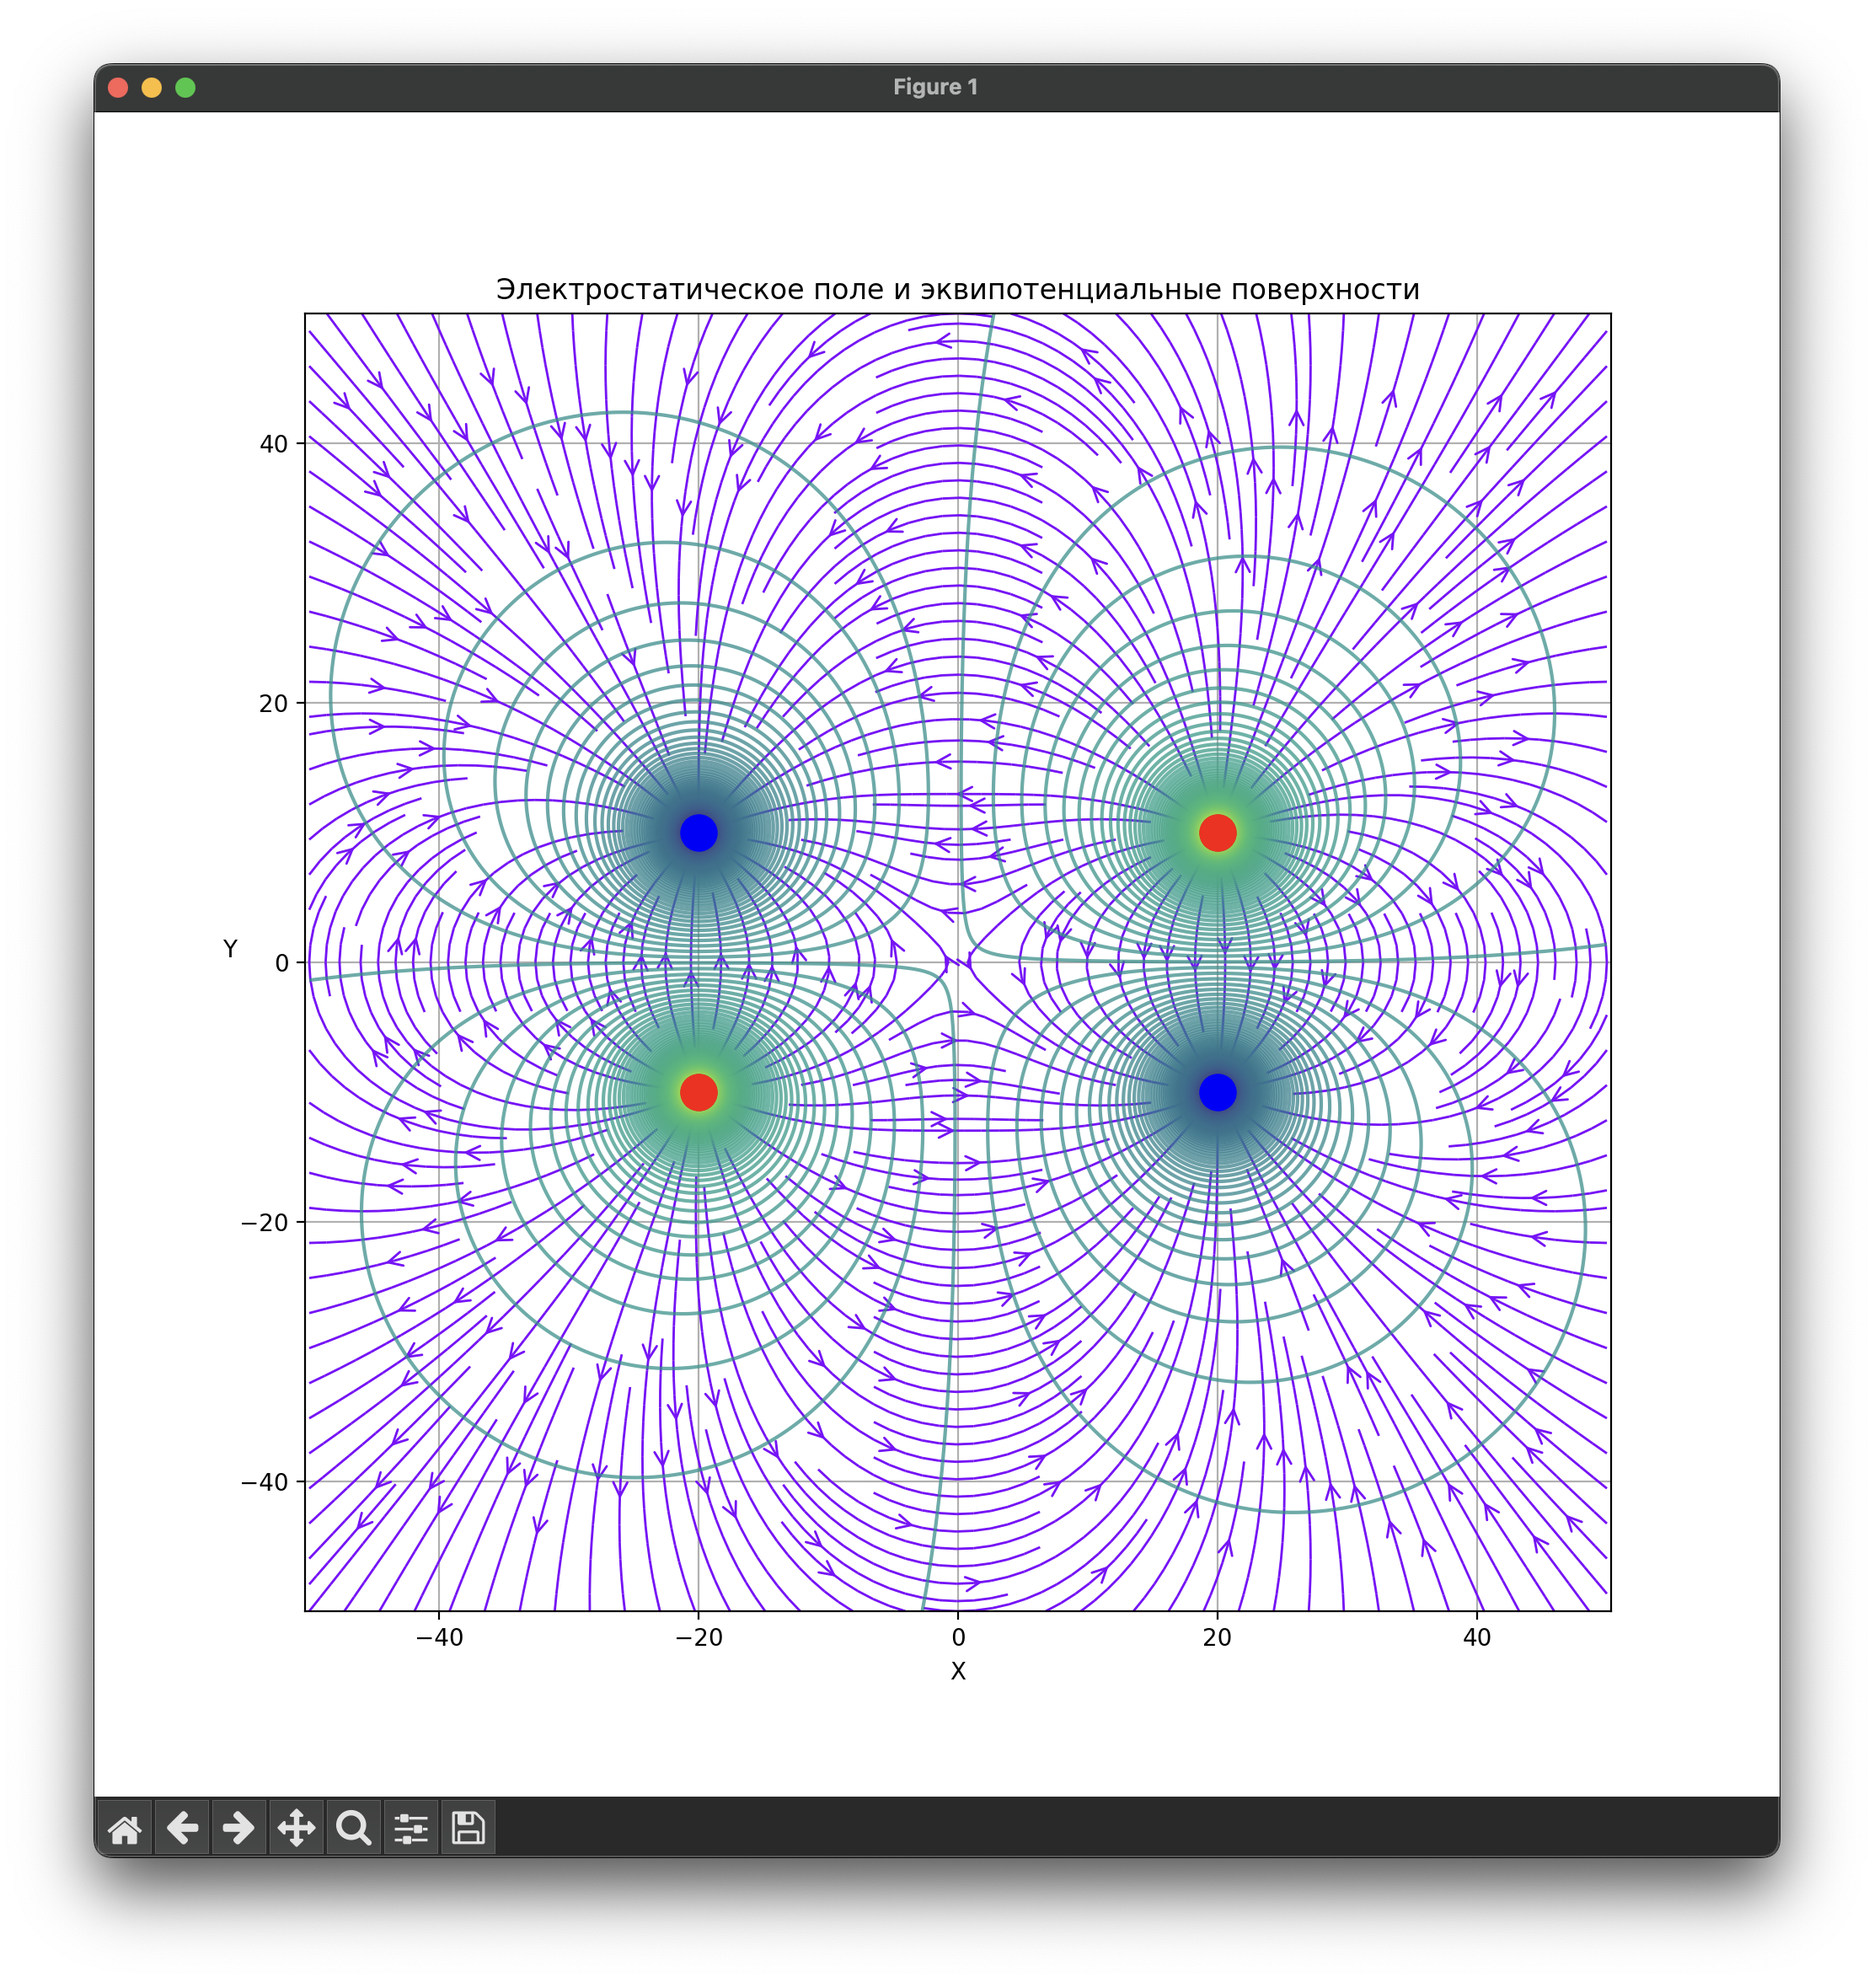
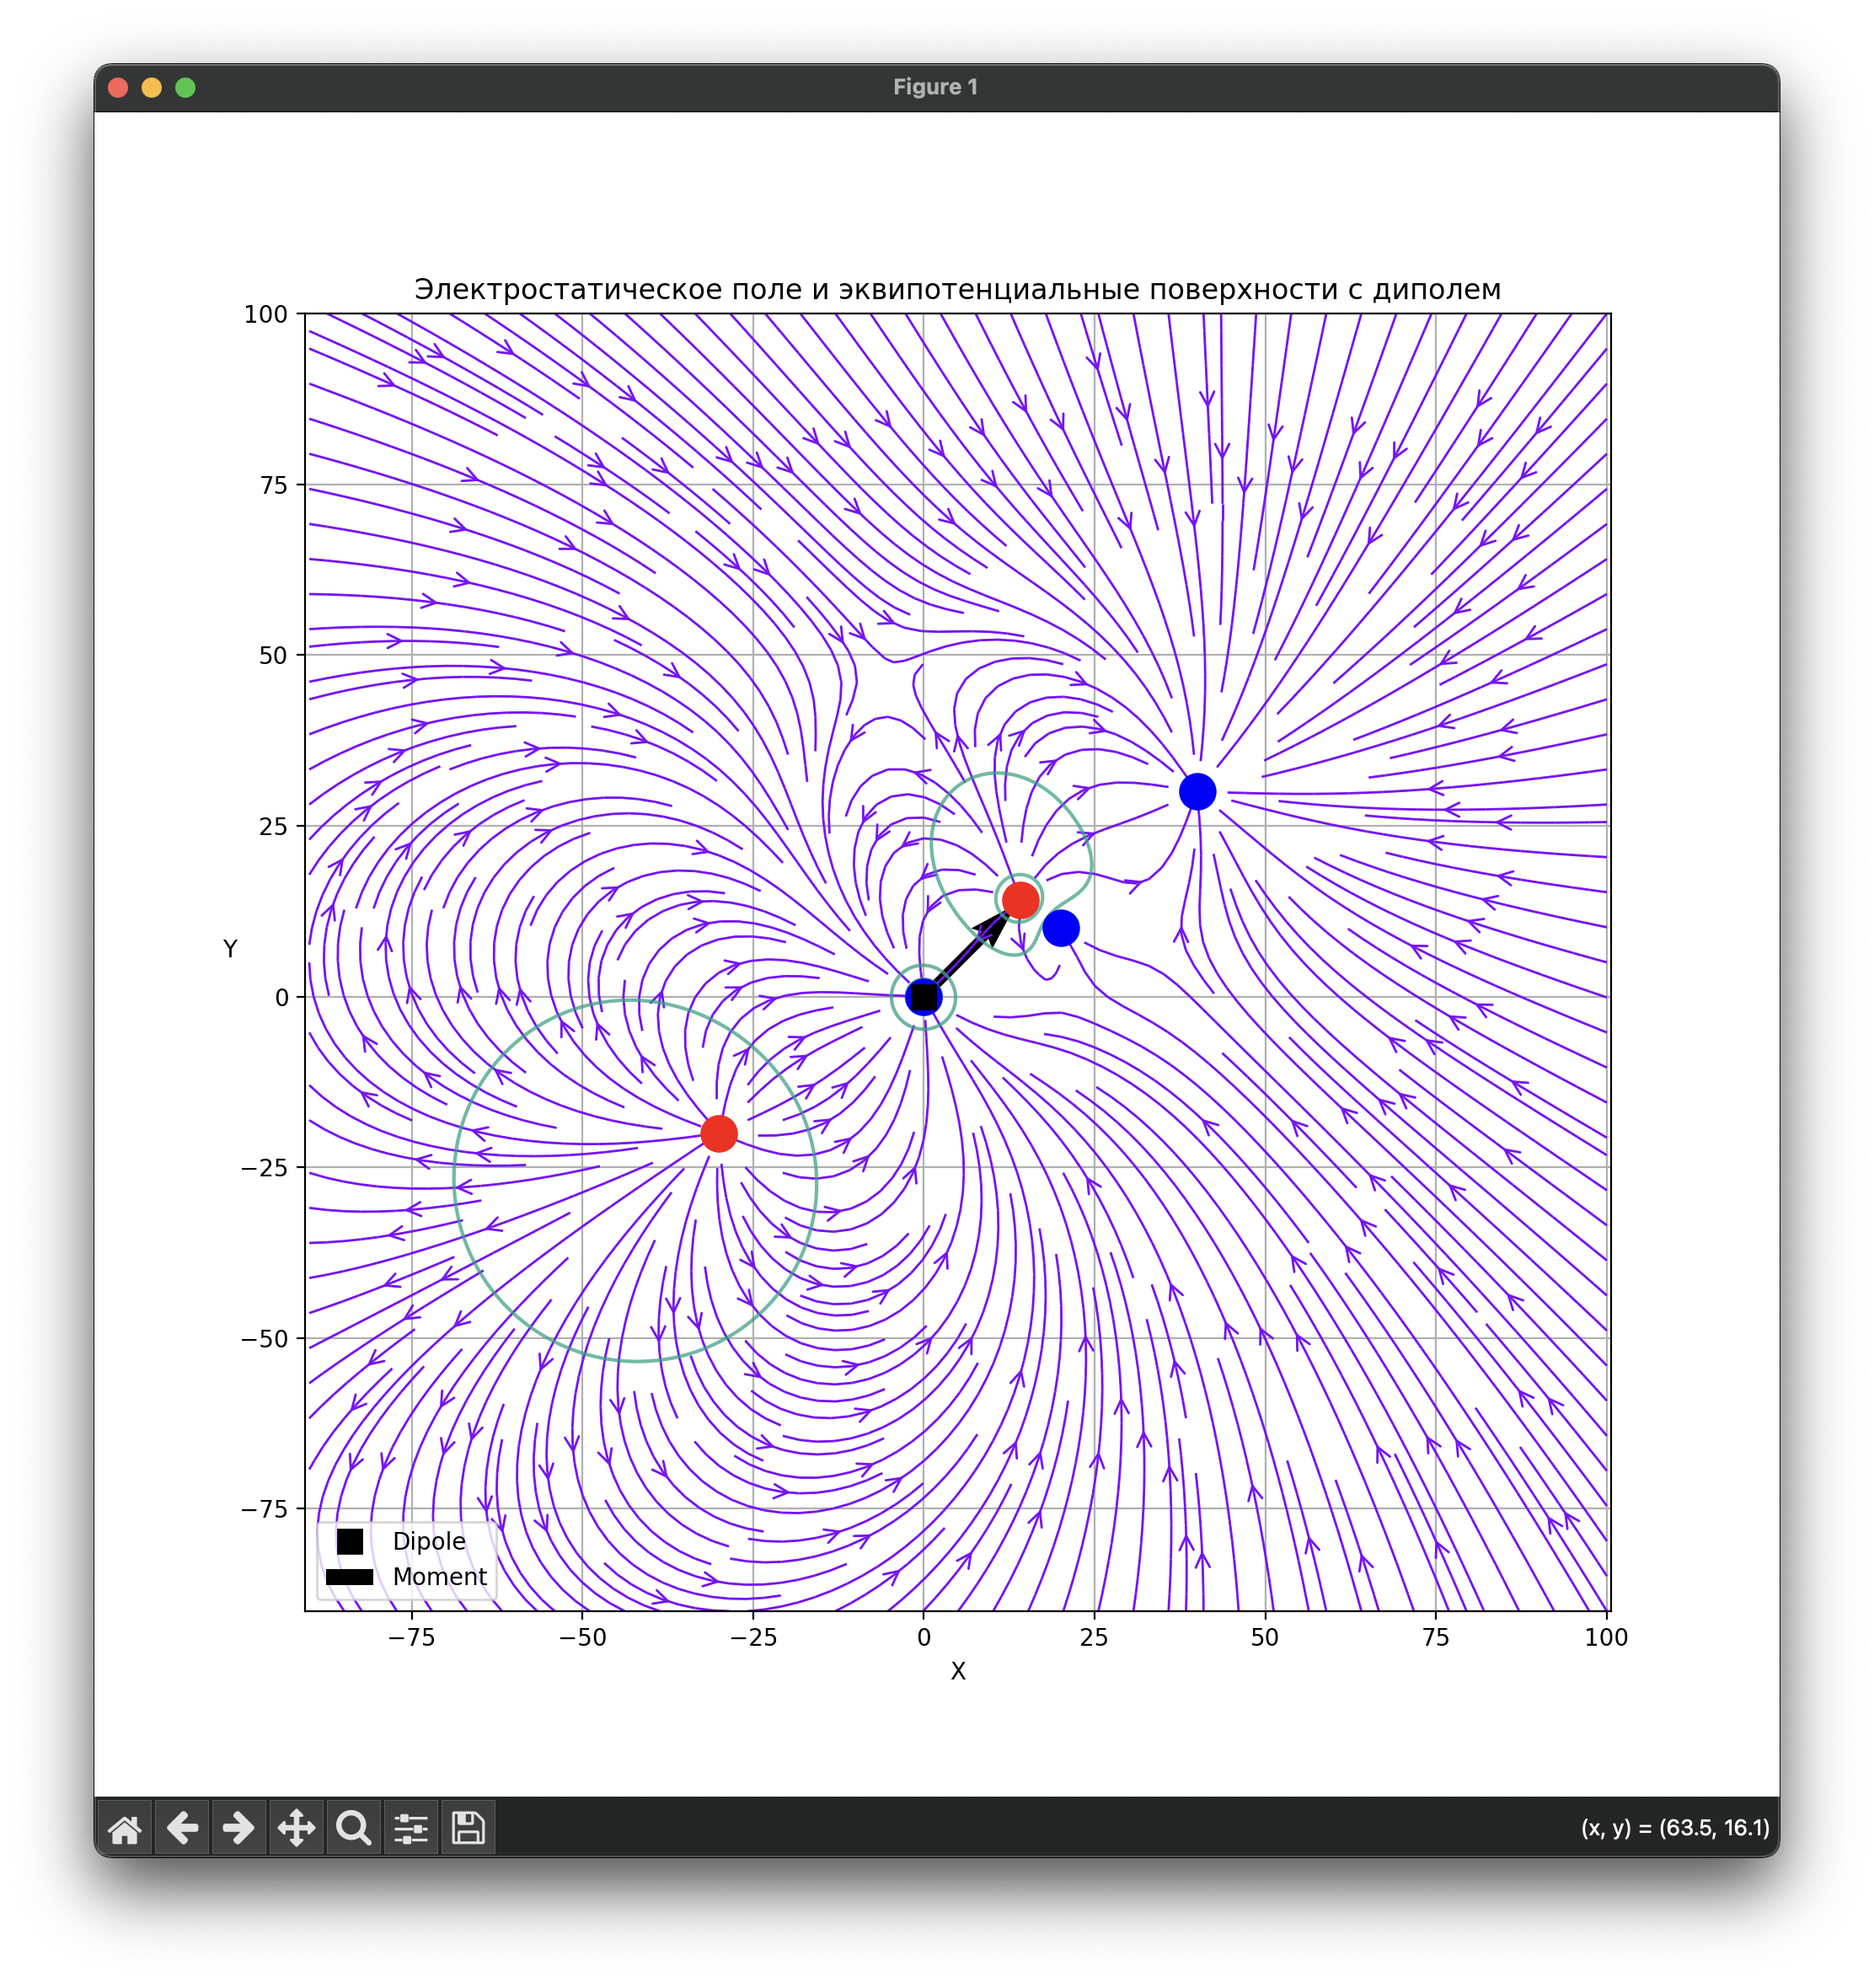
v1 - mvp

Changed region(s): [[0.1241, 0.1241, 0.8687, 0.838], [0.8997, 0.9001, 0.9308, 0.9311]]

diff --git a/dt_13.py b/dt_13.py
@@ -17,6 +17,31 @@ class PointCharge:
         self.x = x
         self.y = y
 
+    def __str__(self):
+        return f"PointCharge(q={self.q}, x={self.x}, y={self.y})"
+
+
+class Dipole:
+    def __init__(self, p, x, y, theta):
+        self.p = p  # Модуль дипольного момента
+        self.x = x
+        self.y = y
+        self.theta = theta  # Угол направления дипольного момента (в радианах)
+
+    def as_charges(self):
+        """
+        Представляет диполь как два точечных заряда.
+        """
+        d_half = self.p / abs(self.p) * 1e+1  # Маленькое расстояние между зарядами
+        q_magnitude = self.p / (2 * d_half)
+        dx = np.cos(self.theta) * d_half
+        dy = np.sin(self.theta) * d_half
+
+        positive_charge = PointCharge(q_magnitude, self.x + dx * 2, self.y + dy * 2)
+        negative_charge = PointCharge(-q_magnitude, self.x, self.y)
+
+        return [positive_charge, negative_charge]
+
 
 def electric_field(charges, x, y):
     """
@@ -60,6 +85,34 @@ def potential(charges, x, y):
     return V
 
 
+def dipole_force_and_torque(dipole, charges):
+    """
+    Вычисление силы и момента силы, действующих на диполь.
+    """
+    Fx, Fy, torque = 0, 0, 0
+
+    for charge in charges:
+        dx = dipole.x - charge.x
+        dy = dipole.y - charge.y
+        r_squared = dx ** 2 + dy ** 2
+        if r_squared < 1e-6:
+            continue
+
+        r = np.sqrt(r_squared)
+        k = 8.99e9
+        E = k * charge.q / r_squared
+
+        Ex = E * (dx / r)
+        Ey = E * (dy / r)
+
+        Fx += dipole.p * np.cos(dipole.theta) * Ex
+        Fy += dipole.p * np.sin(dipole.theta) * Ey
+
+        torque += dipole.p * (np.sin(dipole.theta) * Ex - np.cos(dipole.theta) * Ey)
+
+    return Fx, Fy, torque
+
+
 print("Введите параметры для моделирования электростатического поля")
 
 log.debug("Ожидание ввода параметров")
@@ -83,16 +136,24 @@ for i in range(n):
             f"Y-координату заряда {i + 1:<3} (пример: {yr:5}): "
         ) or yr))
 
-log.debug("Параметры введены")
+charges = [PointCharge(qs[i], xs[i], ys[i]) for i in range(n)]
 
-for i in range(n):
-    log.debug(f"Заряд {i + 1}: {qs[i]} Кл, X-координата: {xs[i]}, Y-координата: {ys[i]}")
+print("Введите параметры диполя")
+p = float(input("Модуль дипольного момента (пример: 1): ") or 1)
+x_d = float(input("X-координата диполя (пример: 0): ") or 0)
+y_d = float(input("Y-координата диполя (пример: 0): ") or 0)
+theta = float(input("Угол диполя в градусах (пример: 45): ") or 45) * np.pi / 180
+log.debug("Окончание ввода параметров")
+print()
 
-log.info("Начало вычислений")
+dipole = Dipole(p, x_d, y_d, theta)
+dipole_charges = dipole.as_charges()
+charges.extend(dipole_charges)
 
-charges = []
-for i in range(n):
-    charges.append(PointCharge(qs[i], xs[i], ys[i]))
+Fx, Fy, torque = dipole_force_and_torque(dipole, charges)
+
+print(f"Сила, действующая на диполь: Fx = {Fx:.2e} Н, Fy = {Fy:.2e} Н")
+print(f"Момент силы, действующий на диполь: {torque:.2e} Н·м")
 
 linspace_r = int(np.sqrt(abs(max(xs) - min(xs)) ** 2 + abs(max(ys) - min(ys)) ** 2) * 1.1 + 1)
 grids = 500
@@ -119,24 +180,20 @@ colors = np.sqrt(Ex ** 2 + Ey ** 2)
 plt.streamplot(X, Y, Ex, Ey, color=colors, linewidth=1, density=2.5, cmap=cm.rainbow, arrowstyle='->', arrowsize=1.5)
 
 log.info("Построение контурных линий потенциала")
-vv = np.sort(np.unique(V))
-log.debug(f"Число уникальных значений потенциала: {len(vv)} / {len(V)}")
-vn, vp = [0] + vv[vv < 0].tolist(), [0] + vv[vv > 0].tolist()
-
-log.debug(f"Интервалы потенциала: {vn[0]}, {vp[-1]}")
-
-amp = 0.1
-contour_levels = np.linspace(vn[int(len(vn) / 100 * amp)], vp[int(len(vp) / 100 * (100 - amp))], 250)
-
-plt.contour(X, Y, V, levels=contour_levels, cmap=cm.viridis, alpha=0.75)
+plt.contour(X, Y, V, levels=50, cmap=cm.viridis, alpha=0.75)
 
 for charge in charges:
     plt.plot(charge.x, charge.y, 'ro' if charge.q > 0 else 'bo', markersize=15)
 
+plt.plot(dipole.x, dipole.y, 'ks', markersize=10, label='Dipole')
+
+plt.quiver(dipole.x, dipole.y, np.cos(dipole.theta), np.sin(dipole.theta), color='k', scale=10, label='Moment')
+
 log.info("Настройка графика")
 plt.xlabel('X')
 plt.ylabel('Y', rotation=0)
-plt.title('Электростатическое поле и эквипотенциальные поверхности')
+plt.title('Электростатическое поле и эквипотенциальные поверхности с диполем')
+plt.legend()
 plt.grid()
 plt.axis('equal')
 log.info("Вывод графика")

diff --git a/README.md b/README.md
@@ -1,21 +1,11 @@
 ## Задание:
 
-Визуализация эквипотенциальных поверхностей системы точечных зарядов. При выполнении предыдущего задания на визуализацию
-линий напряженности рекомендуется совместить модели в одну.
+Усложнение модели с системой точечных зарядов (визуализация линий напряженности и эквипотенциальных поверхностей).
+Добавить возможность помещения диполя в любую точку этого поля (при добавлении диполя учитывать направление и модуль
+дипольного момента). В этой точке должны рассчитываться направления и модуль силы и моменты силы, действующих на диполь
 
-## Примеры:
-
-### 1
+## Пример:
 
 ![пример 1 ввод](./examp-1-inp.png)
 ![пример 1 результат](./examp-1-out.png)
 
-### 2
-
-![пример 2 ввод](./examp-2-inp.png)
-![пример 2 результат](./examp-2-out.png)
-
-### 3
-
-![пример 3 ввод](./examp-3-inp.png)
-![пример 3 результат](./examp-3-out.png)
